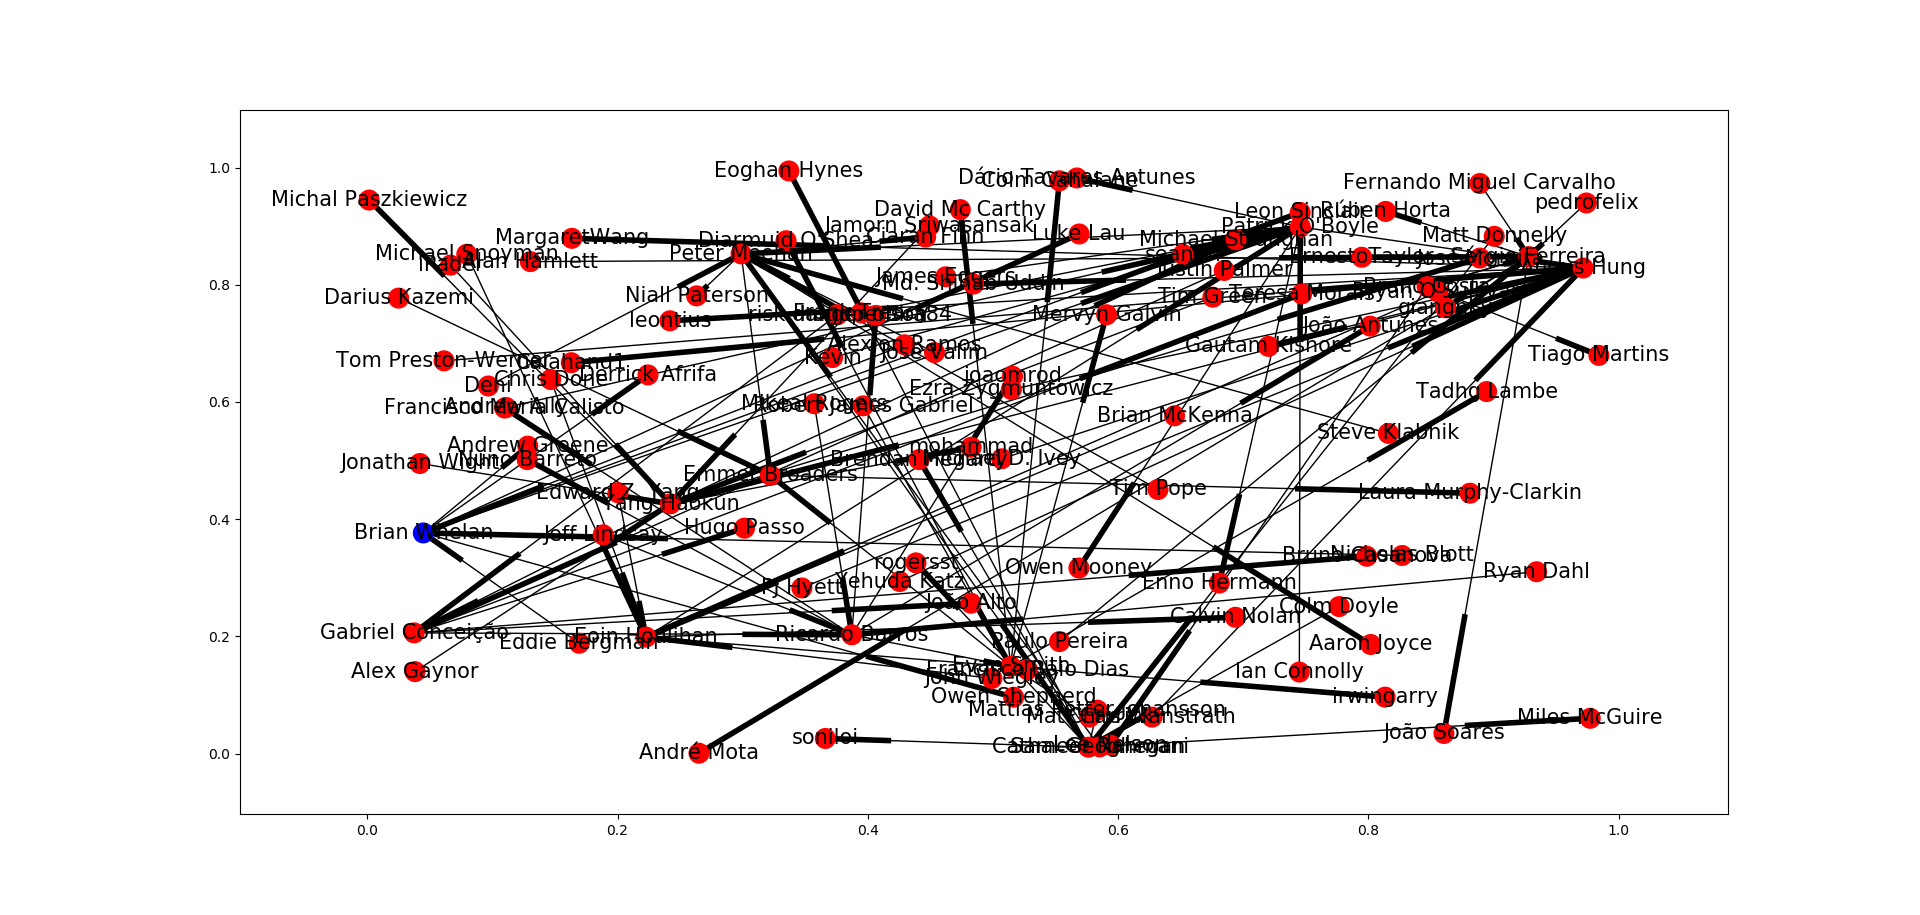
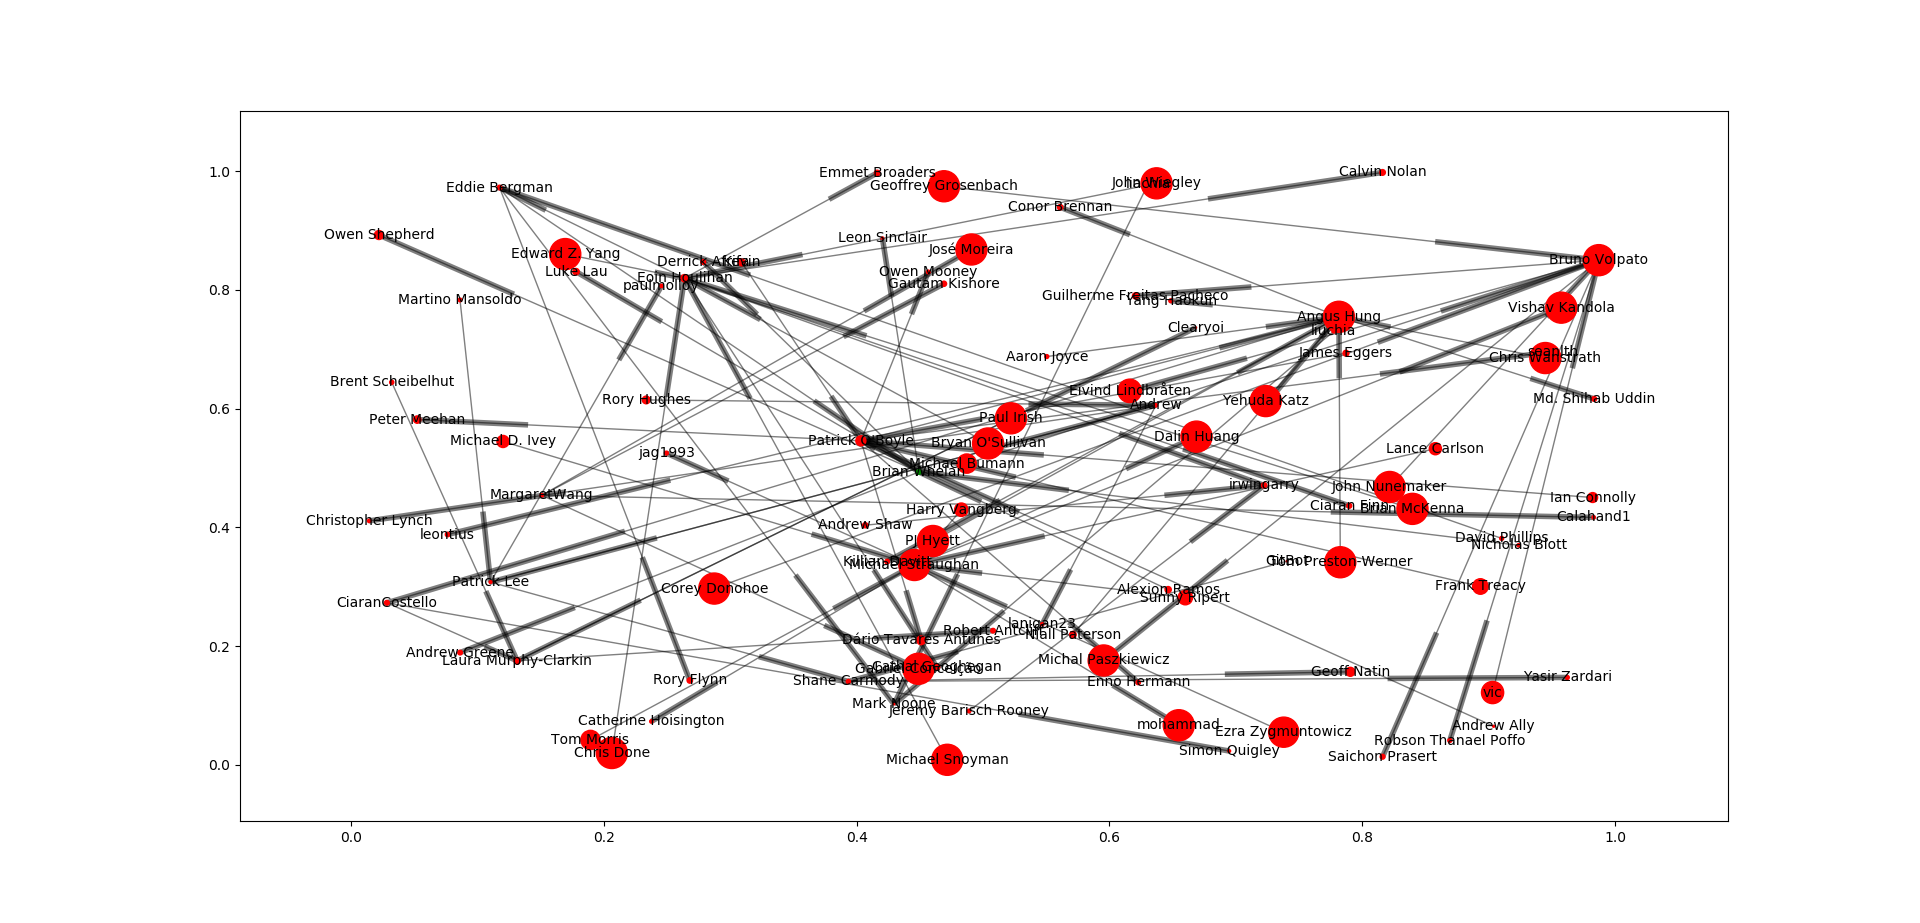
added circumference of vertices as amount of followers as well as made lines less dark for more clarity

diff --git a/github.py b/github.py
@@ -58,7 +58,7 @@ class user:
         return insertStatement
 
 #authorisation with auth token
-
+auth = ("caolanb10" ,"itzzCaolan10")
 r = requests.get('https://api.github.com/users/WhelanB', auth=auth)     #an account with followers and is following people
 userJSON = json.loads(r.text or r.content)
 firstUser = user(userJSON, 1)
@@ -81,7 +81,7 @@ c.execute(firstUser.insertStatement)
 counter = 0
 idList = []
 idList.append(firstUser.id)
-while(counter<200):
+while(counter<50):
     userFollowing = requests.get(newURLchopper(userJSON['following_url']), auth=auth)
     userFollowers = requests.get(userJSON['followers_url'], auth=auth)
     followersJSON = json.loads(userFollowers.text or userFollowers.content)                     #creates list of followeres
